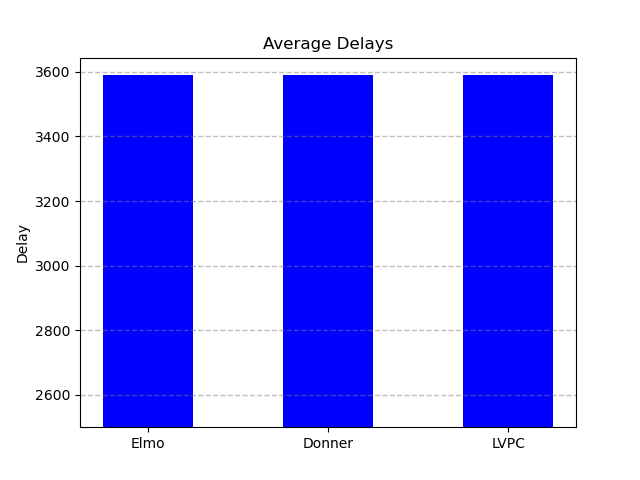
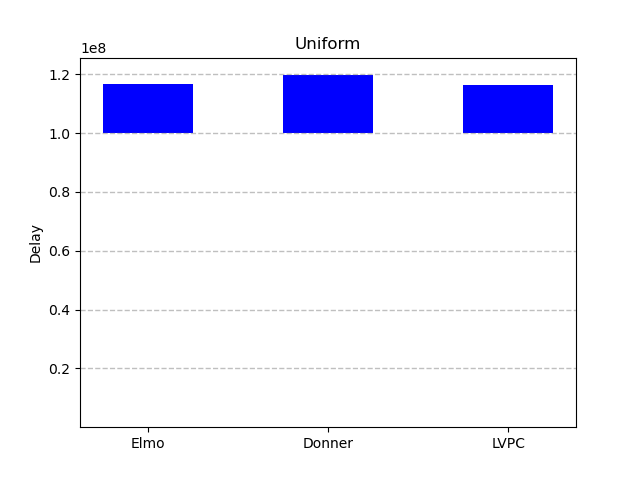
Change plot titles

diff --git a/simulation/make_graphs.py b/simulation/make_graphs.py
@@ -4,11 +4,7 @@ import matplotlib.pyplot as plt
 from tqdm import tqdm
 from simulation import ROUNDS_RANDOM_PAYMENTS
 
-
-
 for distribution in tqdm(["power_law", "preferred_receiver", "uniform"]):
-
-
     # power law
     num_successful_payments_elmo = 0
     num_payments_elmo = 0
@@ -50,10 +46,9 @@ for distribution in tqdm(["power_law", "preferred_receiver", "uniform"]):
     num_pay_ln = 0
 
     for i in tqdm(range(ROUNDS_RANDOM_PAYMENTS)):
-
         with open("results_" + distribution + "Elmo_" + "{}".format(i) + ".pickle", 'rb') as pickled_file_elmo:
             payments_elmo = pickle.load(pickled_file_elmo)
-        
+
         num_payments_elmo += len(payments_elmo)
         num_successful_payments_elmo_round = 0
         sum_fees_elmo_round = 0
@@ -249,7 +244,7 @@ for distribution in tqdm(["power_law", "preferred_receiver", "uniform"]):
     plt.ylabel("Cost")
     plt.title("Average Fees")
     plt.grid(color='grey', linestyle='--', linewidth=1, axis='y', alpha=0.25)
-    plt.show()
+    plt.savefig("Fees_" + distribution + ".png")
 
     x_coords_delay = [0, 1, 2]
     labels_delay = ['Elmo', 'Donner', 'LVPC']
@@ -266,6 +261,6 @@ for distribution in tqdm(["power_law", "preferred_receiver", "uniform"]):
         width=0.5, color=color, bottom=cutoff_delay
     )
     plt.ylabel("Delay")
-    plt.title("Average Delays")
+    plt.title(distribution.replace('_', ' ').title())
     plt.grid(color='grey', linestyle='--', linewidth=1, axis='y', alpha=0.5)
-    plt.show()
+    plt.savefig("Delays_" + distribution + ".png")
